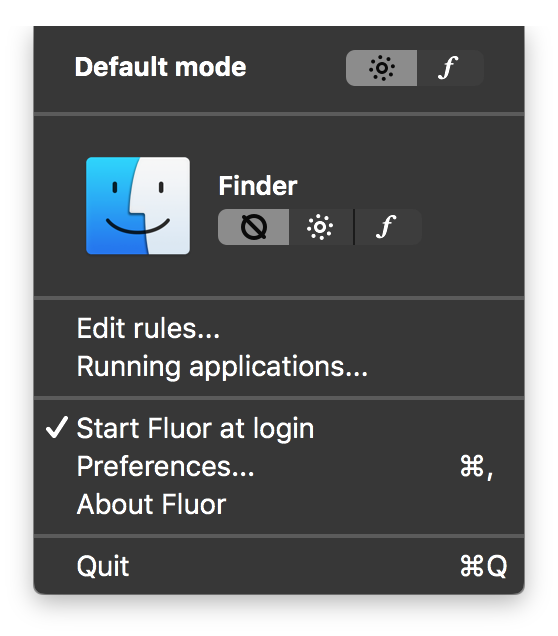
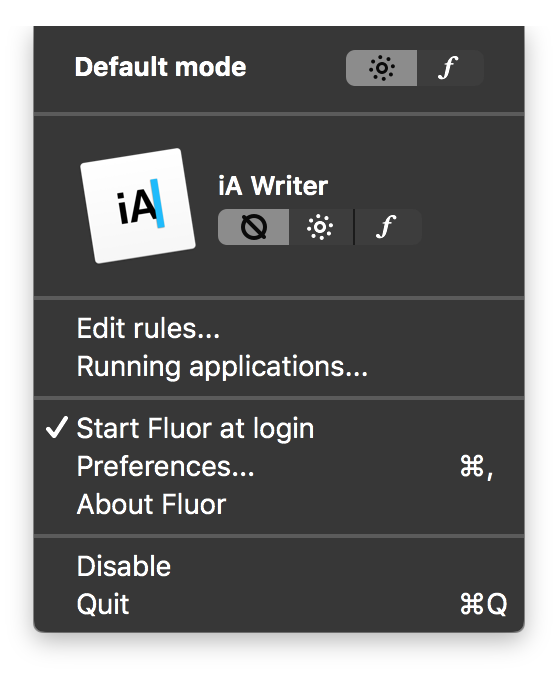
Updated README

Changed region(s): [[0.0609, 0.0299, 0.9444, 0.956], [0.6703, 0.3286, 0.7007, 0.3884]]

diff --git a/README.md b/README.md
@@ -2,7 +2,9 @@
 
 
 [![Swift](https://img.shields.io/badge/Swift-3.0-orange.svg?style=flat)](https://developer.apple.com/swift/)
+![version](https://img.shields.io/badge/macOS-10.10+-green.svg?style=flat)
 [![License](https://img.shields.io/badge/license-MIT-71787A.svg)](https://tldrlegal.com/license/mit-license)
+
 
 ![](https://github.com/Pyroh/Fluor/blob/master/ressources/banner.png?raw=true)
 
@@ -35,6 +37,8 @@ You can choose the default mode, whenever **Fluor** runs it will activate the de
 
 **Fluor** also displays the active application and its associated rule that you can change on the go.  
 <img src="https://github.com/Pyroh/Fluor/blob/master/Fluor/Assets.xcassets/defaultModeTemplate.imageset/defaultModeTemplate@2x.png?raw=true" width=16pt> is the default rule and means that the application will adopt default Fluor's keyboard behaviour.
+
+You can also disable **Fluor** if you need to. It will set the keyboard's behaviour as it was prior to the application's launch. 
 
 ## Rules Editor
 <img src="https://github.com/Pyroh/Fluor/blob/master/ressources/ruleseditor.png?raw=true" width=412pt>
